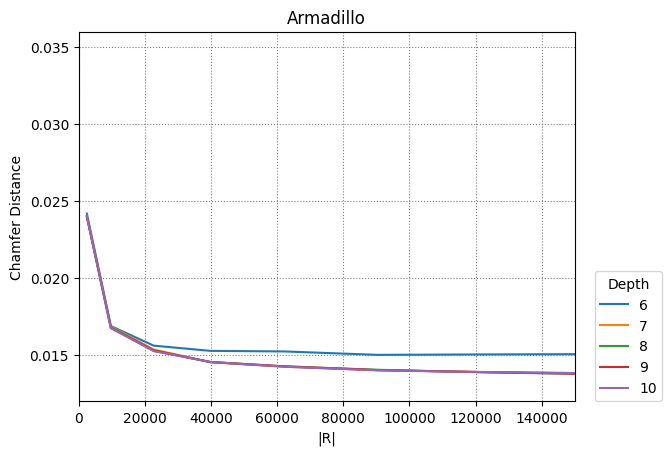
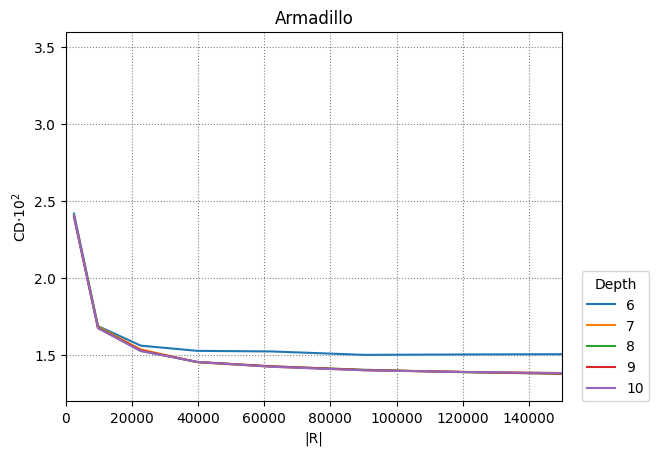
Time deviation test

diff --git a/ray_field/baseline_device.py b/ray_field/baseline_device.py
@@ -1,3 +1,4 @@
+import gc
 import torch
 import numpy as np
 
@@ -304,7 +305,8 @@ class BaselineDevice(Algorithm):
 
         return distances, R_values
     
-    def optimize(model_name: CheckpointName, N_values: list[int], D_values: list[int]) -> tuple[list[list[float]], list[int]]:
+    @staticmethod
+    def depth(model_name: CheckpointName, N_values: list[int], D_values: list[int]) -> tuple[list[list[float]], list[int]]:
         model, device = utils.init_model(model_name)
 
         distances = np.zeros((len(D_values), len(N_values)))
@@ -338,6 +340,51 @@ class BaselineDevice(Algorithm):
         torch.cuda.empty_cache()
 
         return distances, R_values
+    
+    @staticmethod
+    def time_deviation(model_name: CheckpointName, N_values: list[int], samples: int) -> tuple[list[list[float]], list[int]]:
+        model, device = utils.init_model(model_name)
+
+        times = np.zeros((len(N_values), samples))
+        R_values = np.zeros(len(N_values), dtype=int)
+
+        with torch.no_grad():
+            for i in range(len(N_values)):
+                N = N_values[i]
+                print(N, end='\t')
+
+                for j in range(samples):
+                    torch.cuda.synchronize(device)
+                    start_time = timer()
+
+                    origins, dirs = utils.generate_sphere_rays_tensor(N, device)
+                    intersections, intersection_normals = BaselineDevice._baseline_scan(model, origins, dirs)
+                    mesh = utils.poisson_surface_reconstruction(intersections, intersection_normals, BaselineDevice.poisson_depth)
+
+                    torch.cuda.synchronize(device)
+                    time = timer() - start_time
+
+                    if j == 0:
+                        R_values[i] = dirs.shape[0] * dirs.shape[2]
+
+                    times[i][j] = time
+
+                    if ((j + 1) % 6) == 0:
+                        print(f'{time:.5f}', end='\t')
+
+                    del origins, dirs, intersections, intersection_normals, mesh
+                    torch.cuda.empty_cache()
+                    gc.collect()
+                
+                print()
+                torch.cuda.empty_cache()
+                gc.collect()
+
+        del model
+        torch.cuda.empty_cache()
+        gc.collect()
+
+        return times, R_values
 
     @staticmethod
     def _baseline_scan(model: IntersectionFieldAutoDecoderModel, origins: torch.Tensor, dirs: torch.Tensor) -> tuple[ndarray, ndarray]:

diff --git a/analysis/depth.py b/analysis/depth.py
@@ -1,10 +1,11 @@
 import os
 import csv
 import argparse
+import numpy as np
 
 from ray_field import CheckpointName
 from ray_field.baseline_device import BaselineDevice
-from old_analysis import N_VALUES, OBJECT_NAMES
+from analysis import N_VALUES, OBJECT_NAMES, model_name_dict
 
 import matplotlib
 import matplotlib.pyplot as plt
@@ -15,7 +16,7 @@ DIR_PATH = 'analysis/data/depth/'
 def compute_values(model_name: CheckpointName) -> tuple[list[int], list[int], list[list[float]]]:
     D_values = list(range(6, 11, 1))
     
-    distances, R_values = BaselineDevice.optimize(model_name, N_VALUES, D_values)
+    distances, R_values = BaselineDevice.depth(model_name, N_VALUES, D_values)
 
     return D_values, R_values, distances
 
@@ -45,15 +46,16 @@ def load_results(model_name: str) -> tuple[list[int], list[int], list[list[float
 
 def plot_results(D_values: list[int], R_values: list[int], distances: list[list[float]], model_name: str) -> None:
     fig, ax = plt.subplots()
+    distances = np.array(distances) * 100
 
     for i, entry in enumerate(distances):
         ax.plot(R_values, entry, label=f'{D_values[i]}')
     
-    ax.set_ylabel('Chamfer Distance')
+    ax.set_ylabel('CD$\\cdot10^2$')
     ax.set_xlim([0, 150000])
-    ax.set_ylim([0.012, 0.036])
+    ax.set_ylim([1.2, 3.6])
     ax.set_xlabel('|R|')
-    ax.set_title(f'{model_name.capitalize()}')
+    ax.set_title(f'{model_name_dict[model_name]}')
     ax.legend(loc=(1.04, 0), title='Depth')
     plt.grid(linestyle='dotted', color='grey')
     fig.savefig(f'{DIR_PATH}{model_name}.png', bbox_inches="tight")

diff --git a/analysis/time_deviation.py b/analysis/time_deviation.py
@@ -1,0 +1,50 @@
+import os
+import csv
+import argparse
+import numpy as np
+
+from ray_field.baseline_device import BaselineDevice
+from analysis import N_VALUES
+
+SAMPLES = 60
+MODEL_NAME = 'bunny'
+DIR_PATH = 'analysis/data/time_deviation/'
+
+def compute_values() -> tuple[list[int], list[list[float]]]:
+    # Warm up
+    BaselineDevice.surface_reconstruction(MODEL_NAME, 100)
+
+    times, R_values = BaselineDevice.time_deviation(MODEL_NAME, N_VALUES, SAMPLES)
+
+    return R_values, times
+
+def save_results(R_values: list[int], times: list[list[float]]) -> None:
+    if not os.path.exists(DIR_PATH):
+        os.makedirs(DIR_PATH)
+    
+    with open(f'{DIR_PATH}{MODEL_NAME}.csv', mode='w', newline='') as file:
+        writer = csv.writer(file)
+
+        times = np.array(times)
+        means = np.mean(times, axis=1)
+        stds = np.std(times, axis=1)
+        L = means * 0.05
+        n = ((2 * 1.96 * stds) / L) ** 2
+
+        writer.writerow(['|R|', 'Mean', 'Std', 'L', 'N'])
+
+        for r, mean, std, l, nn in zip(R_values, means, stds, L, n):
+            writer.writerow([r, mean, std, l, nn])
+
+    with open(f'{DIR_PATH}{MODEL_NAME}_raw.csv', mode='w', newline='') as file:
+        writer = csv.writer(file)
+
+        for entry in times:
+            writer.writerow(entry)
+
+parser = argparse.ArgumentParser()
+
+args = parser.parse_args()
+
+R_values, times = compute_values()
+save_results(R_values, times)

diff --git a/analysis/__init__.py b/analysis/__init__.py
@@ -1,0 +1,28 @@
+from ray_field.baseline import Baseline
+from ray_field.baseline_device import BaselineDevice
+from ray_field.prescan_cone import PrescanCone
+from ray_field.candidate_sphere import CandidateSphere
+from ray_field.ball_pivoting import BallPivoting
+from ray_field.convex_hull import ConvexHull
+from ray_field.angle_filter import AngleFilter
+
+ALGORITHM_LIST = ['baseline', 'baseline_device', 'prescan_cone', 'candidate_sphere', 'ball_pivoting', 'convex_hull', 'angle_filter']
+OBJECT_NAMES = ['armadillo', 'bunny', 'buddha', 'dragon'] # Runs out of memory when measuring Chamfer distance with 'lucy'
+N_VALUES = list(range(50, 401, 50))
+
+class_dict = {
+    'baseline': Baseline,
+    'baseline_device': BaselineDevice,
+    'prescan_cone': PrescanCone,
+    'candidate_sphere': CandidateSphere,
+    'ball_pivoting': BallPivoting,
+    'convex_hull': ConvexHull,
+    'angle_filter': AngleFilter
+}
+
+model_name_dict = {
+    'armadillo': 'Armadillo',
+    'bunny': 'Bunny',
+    'dragon': 'Dragon',
+    'buddha': 'Happy Buddha'
+}

diff --git a/ray_field/utils.py b/ray_field/utils.py
@@ -203,9 +203,9 @@ def poisson_surface_reconstruction(points: ndarray, normals: ndarray, depth: int
     with o3d.utility.VerbosityContextManager(verbosity) as cm:
         mesh = o3d.geometry.TriangleMesh.create_from_point_cloud_poisson(point_cloud, depth=depth)[0]
 
-    # Fix normals and assign color
-    mesh.compute_vertex_normals()
-    mesh.paint_uniform_color(np.array([[0.5],[0.5],[0.5]]))
+    # Fix normals and assign color (omg WHY HERE???)
+    #mesh.compute_vertex_normals()
+    #mesh.paint_uniform_color(np.array([[0.5],[0.5],[0.5]]))
 
     return mesh
 

diff --git a/ray_field/__init__.py b/ray_field/__init__.py
@@ -12,13 +12,13 @@ LUCY = f'{TENSORBOARD}lucy-both2marf-16atom-50xinscr-10dmiss-geom-25cnrml-8x512f
 
 model_dict = {
     'bunny': BUNNY,
-    'happy_buddha': BUDDHA,
+    'buddha': BUDDHA,
     'armadillo': ARMADILLO,
     'dragon': DRAGON,
     'lucy': LUCY
 }
 
-CheckpointName: TypeAlias = Literal['bunny', 'happy_buddha', 'armadillo', 'dragon', 'lucy']
+CheckpointName: TypeAlias = Literal['bunny', 'buddha', 'armadillo', 'dragon', 'lucy']
 
 def get_checkpoint(name: CheckpointName) -> str:
     return model_dict[name]
